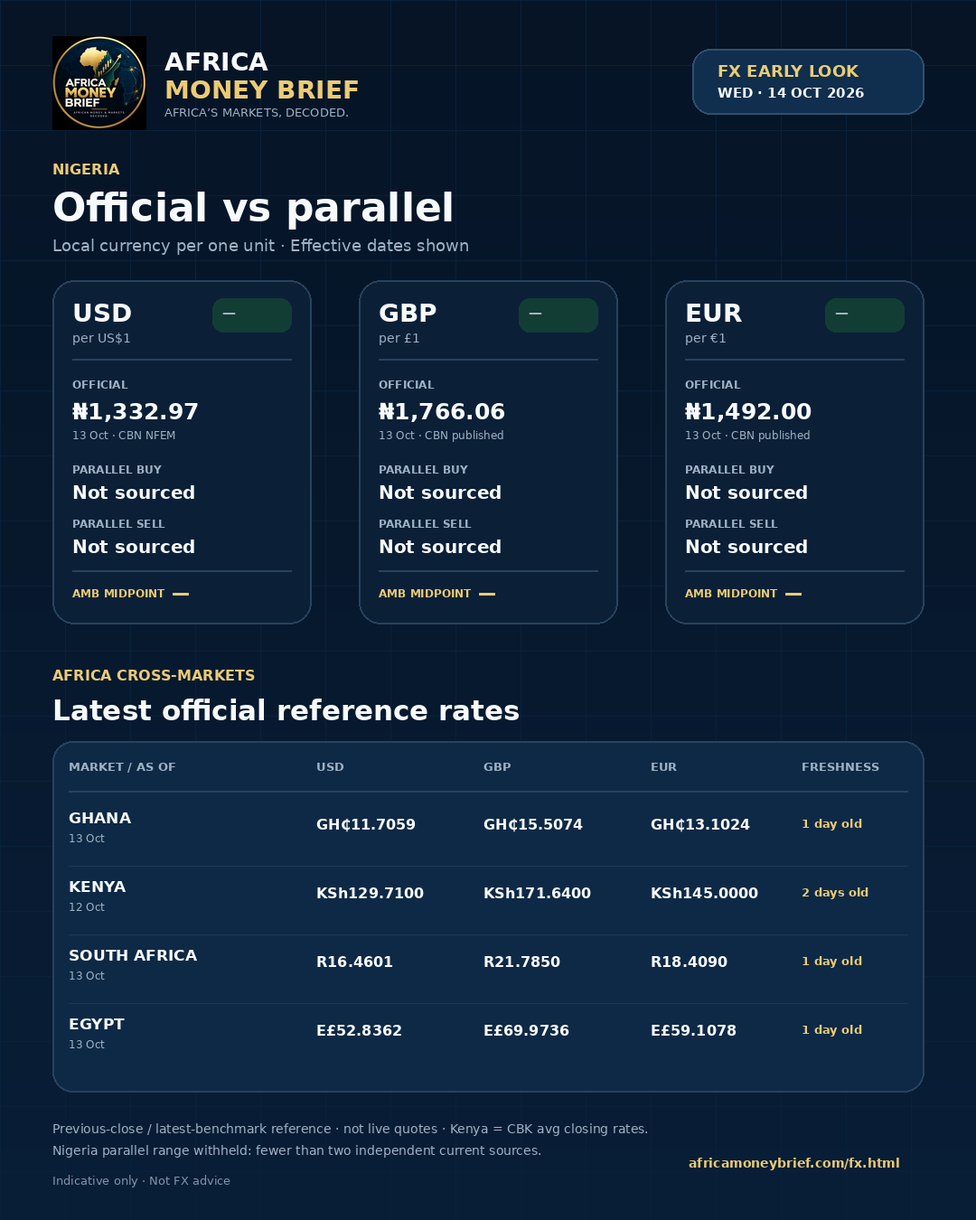
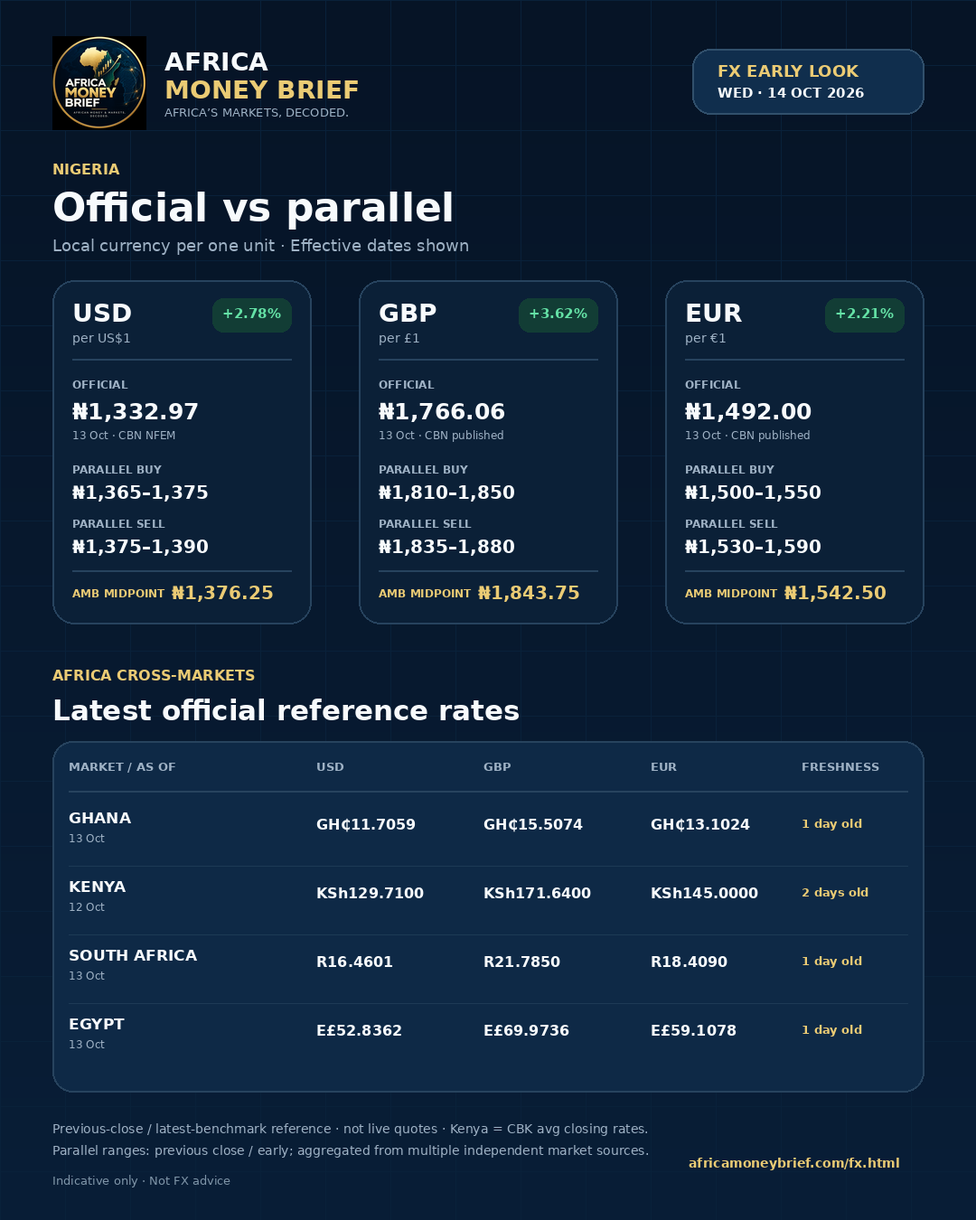
VALIDATED Early Look 2026-10-14

diff --git a/fx.html b/fx.html
@@ -4,11 +4,11 @@
 <script defer src="assets/privacy.js"></script>
 <meta charset="utf-8"><meta name="viewport" content="width=device-width,initial-scale=1"><meta name="description" content="Official and parallel exchange rates for Nigeria plus Ghana, Kenya, South Africa and Egypt, each with its effective date."><meta name="theme-color" content="#061426"><link rel="canonical" href="https://africamoneybrief.com/fx.html"><meta property="og:site_name" content="Africa Money Brief"><meta property="og:title" content="FX Markets | Africa Money Brief"><meta property="og:description" content="Official and parallel exchange rates for Nigeria plus Ghana, Kenya, South Africa and Egypt, each with its effective date."><meta property="og:image" content="https://africamoneybrief.com/assets/africa-money-brief-cover.png"><meta property="og:type" content="website"><meta name="twitter:card" content="summary_large_image"><title>FX Markets | Africa Money Brief</title><link rel="icon" type="image/png" href="assets/africa-money-brief-logo.png"><link rel="stylesheet" href="styles.css"><link rel="stylesheet" href="assets/redesign.css"></head><body><header><a class="logo brand-logo" href="index.html"><img src="assets/africa-money-brief-logo.png" alt="Africa Money Brief logo"><span>AFRICA <em>MONEY BRIEF</em><small>AFRICA’S MARKETS, DECODED.</small></span></a><nav><a class="" href="index.html">HOME</a><a class="active" href="fx.html">FX</a><a class="" href="capital-markets.html">CAPITAL MARKETS</a><a class="" href="money-rates.html">MONEY &amp; RATES</a><a class="" href="real-estate.html">REAL ESTATE</a><a class="" href="data.html">DATA</a><a class="" href="archive.html">ARCHIVE</a><a class="x" href="https://x.com/AMBriefDaily">Follow @AMBriefDaily ↗</a></nav></header>
 <main><section class="subhero"><div><p class="eyebrow">FX MARKETS</p><h1>Currencies.<br><i>Clearly decoded.</i></h1><p class="lead">Official rates, parallel markets, spreads, reserves and the policy forces moving African currencies.</p></div><div class="subhero-brand"><img src="assets/africa-money-brief-logo.png" alt="Africa Money Brief"><span>AFRICA’S MARKETS,<br><b>DECODED.</b></span></div></section>
-<div class="v2"><section class="section" style="padding-bottom:0"><!--AMB:early-latest--><div class="v2"><details id="early-look-2026-10-13" open><summary>13 Oct · Early Look (pre-market)</summary><section class="section"><p class="eyebrow">FX EARLY LOOK · 13 OCT 2026 · PRE-MARKET</p><p class="lead">Previous-close and overnight reference only; not live opening quotes. Each figure carries its own effective date.</p>
-<div class="tw"><table><thead><tr><th>Currency</th><th>Nigeria official</th><th>Parallel buy / sell</th><th>Premium</th></tr></thead><tbody><tr><td>USD</td><td>₦1,332.10 <small>(12 Oct, CBN selling)</small></td><td>₦1,365–1,365 / ₦1,373–1,375</td><td class="prem">+2.47%</td></tr><tr><td>GBP</td><td>₦1,762.63 <small>(12 Oct, CBN selling)</small></td><td>₦1,810–1,820 / ₦1,840–1,850</td><td class="prem">+2.97%</td></tr><tr><td>EUR</td><td>₦1,489.15 <small>(12 Oct, CBN selling)</small></td><td>₦1,520–1,525 / ₦1,545–1,560</td><td class="prem">+2.24%</td></tr></tbody></table></div>
-<p class="fine">Premium = parallel buying midpoint ÷ CBN selling rate − 1. CBN rates are the 12 Oct published selling rates; parallel observations (13 Oct early morning): aggregated from multiple independent market sources; indicative only.</p>
-<h3 style="margin:22px 0 10px">Africa cross-markets</h3><div class="tw"><table><thead><tr><th>Market</th><th>USD</th><th>GBP</th><th>EUR</th><th>As of</th></tr></thead><tbody><tr><td>Ghana</td><td>GH₵11.7700</td><td>GH₵15.5417</td><td>GH₵13.1325</td><td>12 Oct <span class="chip ok">1 day old</span></td></tr><tr><td>Kenya</td><td>KSh129.7500</td><td>KSh171.6700</td><td>KSh145.3200</td><td>12 Oct <span class="chip ok">1 day old</span></td></tr><tr><td>South Africa</td><td>R16.5423</td><td>R21.9020</td><td>R18.5141</td><td>12 Oct <span class="chip ok">1 day old</span></td></tr><tr><td>Egypt</td><td>E£52.3902</td><td>E£69.2442</td><td>E£58.6299</td><td>7 Oct <span class="chip warn">6 days old</span></td></tr></tbody></table></div>
-<p class="fine">Latest published official reference values with effective dates: Ghana mid of Bank of Ghana buy/sell (12 Oct); Kenya CBK daily rate (12 Oct); South Africa SARB and Egypt CBE carried from the last verified publication (SARB 12 Oct; CBE 7 Oct) because the central-bank pages could not be re-read this morning. Informational only; not financial or FX advice. The Flagship edition follows after verification.</p></section></details></div><!--/AMB:early-latest--></section><!--AMB:flagship--><section class="section" id="flagship-2026-10-13"><p class="eyebrow">FX FLAGSHIP · EDITION 13 OCT 2026</p><h2 class="h2s" style="margin-top:8px">Nigeria — official vs parallel</h2>
+<div class="v2"><section class="section" style="padding-bottom:0"><!--AMB:early-latest--><div class="v2"><details id="early-look-2026-10-14" open><summary>14 Oct · Early Look (pre-market)</summary><section class="section"><p class="eyebrow">FX EARLY LOOK · 14 OCT 2026 · PRE-MARKET</p><p class="lead">Previous-close and latest-benchmark reference only; not live opening quotes. Each figure carries its own effective date.</p>
+<div class="tw"><table><thead><tr><th>Currency</th><th>Nigeria official</th><th>Parallel buy / sell</th><th>Premium</th></tr></thead><tbody><tr><td>USD</td><td>₦1,332.97 <small>(13 Oct, CBN selling)</small></td><td>₦1,365–1,375 / ₦1,375–1,390</td><td class="prem">+2.78%</td></tr><tr><td>GBP</td><td>₦1,766.06 <small>(13 Oct, CBN selling)</small></td><td>₦1,810–1,850 / ₦1,835–1,880</td><td class="prem">+3.62%</td></tr><tr><td>EUR</td><td>₦1,492.00 <small>(13 Oct, CBN selling)</small></td><td>₦1,500–1,550 / ₦1,530–1,590</td><td class="prem">+2.21%</td></tr></tbody></table></div>
+<p class="fine">Nigeria parallel-market ranges aggregate multiple independent previous-close/early observations from 13 Oct 16:13-22:06 WAT and 14 Oct 03:00-pre-07:00 WAT. They are not live opening quotes. Material GBP and EUR cross-source dispersion is preserved rather than compressed. Premium = parallel buying midpoint ÷ CBN selling rate - 1.</p>
+<h3 style="margin:22px 0 10px">Africa cross-markets</h3><div class="tw"><table><thead><tr><th>Market</th><th>USD</th><th>GBP</th><th>EUR</th><th>As of</th></tr></thead><tbody><tr><td>Ghana</td><td>GH₵11.7059</td><td>GH₵15.5074</td><td>GH₵13.1024</td><td>13 Oct <span class="chip ok">1 day old</span></td></tr><tr><td>Kenya</td><td>KSh129.7100</td><td>KSh171.6400</td><td>KSh145.0000</td><td>12 Oct <span class="chip warn">2 days old</span></td></tr><tr><td>South Africa</td><td>R16.4601</td><td>R21.7850</td><td>R18.4090</td><td>13 Oct <span class="chip ok">1 day old</span></td></tr><tr><td>Egypt</td><td>E£52.8362</td><td>E£69.9736</td><td>E£59.1078</td><td>13 Oct <span class="chip ok">1 day old</span></td></tr></tbody></table></div>
+<p class="fine">Latest official reference values with effective dates: Ghana mid of Bank of Ghana buy/sell (13 Oct); Kenya CBK commercial-banks’ average closing rates (market close 12 Oct, published 13 Oct; not a standalone buy or sell quote); South Africa SARB weighted-average bank rates at approximately 10:30 on 13 Oct, reverified directly through the SARB HomePageRates endpoint on 14 Oct; Egypt mid of CBE buy/sell (13 Oct). Informational only; not financial or FX advice. The Flagship edition follows after verification.</p></section></details></div><!--/AMB:early-latest--></section><!--AMB:flagship--><section class="section" id="flagship-2026-10-13"><p class="eyebrow">FX FLAGSHIP · EDITION 13 OCT 2026</p><h2 class="h2s" style="margin-top:8px">Nigeria — official vs parallel</h2>
 <p class="lead">Local currency per one unit of foreign currency. Every figure carries its effective date.</p>
 <div class="panel"><div class="ph"><h3>USD → NGN <small>per US$1</small></h3><span class="prem big">+2.85%</span></div><div class="grid4"><div><small>CBN NFEM rate · 12 Oct</small><b>₦1,332.10</b></div><div><small>Parallel buy</small><b>₦1,365–1,375</b></div><div><small>Parallel sell</small><b>₦1,373–1,390</b></div><div><small>AMB midpoint</small><b class="gold">₦1,375.75</b></div></div><p class='basis'>CBN NFEM rate (volume-weighted; the CBN’s official selling rate for the day), 12 Oct. The premium uses this rate. Source: <a href='https://www.cbn.gov.ng/rates/ExchRateByCurrency.html'>CBN ↗</a></p></div><div class="panel"><div class="ph"><h3>GBP → NGN <small>per £1</small></h3><span class="prem big">+4.11%</span></div><div class="grid4"><div><small>CBN published rate · 12 Oct</small><b>₦1,762.63</b></div><div><small>Parallel buy</small><b>₦1,820–1,850</b></div><div><small>Parallel sell</small><b>₦1,840–1,880</b></div><div><small>AMB midpoint</small><b class="gold">₦1,847.50</b></div></div><p class='basis'>CBN published selling rate, 12 Oct. The premium uses this rate. Source: <a href='https://www.cbn.gov.ng/rates/ExchRateByCurrency.html'>CBN ↗</a></p></div><div class="panel"><div class="ph"><h3>EUR → NGN <small>per €1</small></h3><span class="prem big">+3.25%</span></div><div class="grid4"><div><small>CBN published rate · 12 Oct</small><b>₦1,489.15</b></div><div><small>Parallel buy</small><b>₦1,525–1,550</b></div><div><small>Parallel sell</small><b>₦1,545–1,590</b></div><div><small>AMB midpoint</small><b class="gold">₦1,552.50</b></div></div><p class='basis'>CBN published selling rate, 12 Oct. The premium uses this rate. Source: <a href='https://www.cbn.gov.ng/rates/ExchRateByCurrency.html'>CBN ↗</a></p></div>
 <p class="fine">Nigeria’s 13 Oct public parallel-market observations showed material cross-source dispersion. The displayed ranges preserve verified same-day observations rather than force a single quote. Premium = parallel buying midpoint ÷ CBN selling rate − 1. Indicative only; not FX advice.</p>
@@ -28,7 +28,11 @@
 <p class="fine">Parallel observations: aggregated from multiple independent market sources; rates vary by location and transaction size. Premium = parallel buying midpoint ÷ CBN selling rate − 1. Indicative only; not FX advice.</p>
 <h2 class="h2s">Africa cross-markets — official rates</h2><div class="tw"><table><thead><tr><th>Market</th><th>USD</th><th>GBP</th><th>EUR</th><th>As of</th></tr></thead><tbody><tr><td>Ghana</td><td>GH₵11.7800</td><td>GH₵15.5585</td><td>GH₵13.1824</td><td>8 Oct <span class="chip ok">1 day old</span></td></tr><tr><td>Kenya</td><td>KSh129.9100</td><td>KSh172.0400</td><td>KSh145.9200</td><td>9 Oct <span class="chip ok">Today</span></td></tr><tr><td>South Africa</td><td>R16.6784</td><td>R22.0287</td><td>R18.6760</td><td>8 Oct <span class="chip ok">1 day old</span></td></tr><tr><td>Egypt</td><td>E£52.3902</td><td>E£69.2442</td><td>E£58.6294</td><td>7 Oct <span class="chip warn">2 days old</span></td></tr></tbody></table></div>
 <p class="fine">Mid-market reference values: Ghana mid of Bank of Ghana buy/sell; Kenya CBK indicative; South Africa and Egypt mid of published buy/sell. Egypt’s latest retrievable table is 7 Oct. Primary sources: <a href="https://www.cbn.gov.ng/rates/ExchRateByCurrency.html">CBN</a> · <a href="https://www.bog.gov.gh/treasury-and-the-markets/daily-interbank-fx-rates/">Bank of Ghana</a> · <a href="https://www.centralbank.go.ke/cbk-indicative-rates/">CBK</a> · <a href="https://www.resbank.co.za/en/home/what-we-do/statistics/key-statistics/current-market-rates">SARB</a> · <a href="https://www.cbe.org.eg/en/economic-research/statistics/cbe-exchange-rates">CBE</a>.</p>
-<div class="btns"><a class="btn" href="data/fx/2026-10-09.json">Download this edition (JSON)</a><a class="ghost" href="data/fx/series.csv">CSV</a><a class="ghost" href="archive.html">All editions</a></div></section></div></details><!--/AMB:earlier--><details id="early-look-2026-10-09"><summary>9 Oct · Early Look (pre-market)</summary><section class="section" id="early-look-2026-10-09"><div class="heading"><div><p class="eyebrow">9 OCT 2026 • FX EARLY LOOK • PRE-MARKET</p><h2>Early Look — source-dated benchmarks</h2><p><b>Rates verified against published sources 9 October 2026.</b> Figures below carry their own effective dates and are not represented as live opening quotes. Local currency per unit.</p></div><span class="date">EARLY LOOK • PRE-MARKET</span></div><div class="cards"><article class="card feature"><span class="tag">NIGERIA • OCT 8 OFFICIAL / OCT 9 MEMBER REPORT</span><h3>NGN • official reference and indicative parallel observations</h3><p>Official 8 Oct benchmark (CBN-attributed secondary listing): USD ₦1,331.60 • GBP ₦1,758.51 • EUR ₦1,489.66 (central reference, not dealer buy/sell).</p><p>USD parallel indicative: Oct 9 member report ₦1,383 buy / ₦1,388 sell; Oct 9 independent published report ₦1,375 buy / ₦1,385 sell. <b>Observed source dispersion: buy ₦1,375–₦1,383; sell ₦1,385–₦1,388.</b> Not a consensus or executable nationwide quote.</p><p>GBP parallel ₦1,825 buy / ₦1,840 sell; EUR ₦1,525 buy / ₦1,545 sell — <b>Oct 6 latest available member reports</b>, not current Oct 9 quotes.</p></article><article class="card"><span class="tag">GHANA • OCT 8 BANK OF GHANA</span><h3>GHS • official prior close (mid)</h3><p>USD 11.7800 • GBP 15.5585 • EUR 13.1824</p></article><article class="card"><span class="tag">KENYA • OCT 9 CENTRAL BANK</span><h3>KES • latest published benchmark</h3><p>USD 129.91 • GBP 172.04 • EUR 145.92</p></article><article class="card"><span class="tag">SOUTH AFRICA • OCT 8 PRIOR SESSION</span><h3>ZAR • authorized-bank TT buy / sell</h3><p>USD 16.4968 / 16.8599 • GBP 21.6715 / 22.3859 • EUR 18.3555 / 18.9964</p><p class="fine">Previous verified website observation; not reverified as Oct 9 live trading.</p></article><article class="card"><span class="tag">EGYPT • OCT 7 CENTRAL BANK</span><h3>EGP • latest available prior benchmark</h3><p>USD 52.3204 / 52.4600 • EUR 58.5465 / 58.7132 (buy / sell). GBP 69.1414 / 69.3469 (Oct 7 previously published bank quote; not newly primary-verified).</p></article></div><p class="fine">Source checks: <a href="https://www.bog.gov.gh/treasury-and-the-markets/daily-interbank-fx-rates/">BoG</a>; <a href="https://www.centralbank.go.ke/home/forex2/">CBK</a>; <a href="https://www.cbe.org.eg/en/">CBE</a>; Nigeria official-rate attribution (CBN-attributed secondary listing). Nigeria parallel observations: aggregated from multiple independent market sources. Rates vary by source, location, transaction and time. Informational only; not financial or FX advice.</p></section></details><details id="fx-flagship-2026-10-08"><summary>8 Oct · FX Flagship</summary><section class="section" id="fx-flagship-2026-10-08"><div class="heading"><div><p class="eyebrow">PREVIOUS FLAGSHIP EDITION • 8 OCT 2026</p><h2>AFRICA FX FLAGSHIP — OCTOBER 8, 2026</h2><p><b>USD • GBP • EUR</b> · Local currency per unit. <b>Verified as of 12:02 PM WAT, October 8, 2026.</b></p><p>Latest available observations dated October 7–8; dates and market conventions differ. Buy/sell shown only where independently supported.</p></div><span class="date">OCT 8 EDITION</span></div>
+<div class="btns"><a class="btn" href="data/fx/2026-10-09.json">Download this edition (JSON)</a><a class="ghost" href="data/fx/series.csv">CSV</a><a class="ghost" href="archive.html">All editions</a></div></section></div></details><details id="early-look-2026-10-13"><summary>13 Oct · Early Look (pre-market)</summary><section class="section"><p class="eyebrow">FX EARLY LOOK · 13 OCT 2026 · PRE-MARKET</p><p class="lead">Previous-close and overnight reference only; not live opening quotes. Each figure carries its own effective date.</p>
+<div class="tw"><table><thead><tr><th>Currency</th><th>Nigeria official</th><th>Parallel buy / sell</th><th>Premium</th></tr></thead><tbody><tr><td>USD</td><td>₦1,332.10 <small>(12 Oct, CBN selling)</small></td><td>₦1,365–1,365 / ₦1,373–1,375</td><td class="prem">+2.47%</td></tr><tr><td>GBP</td><td>₦1,762.63 <small>(12 Oct, CBN selling)</small></td><td>₦1,810–1,820 / ₦1,840–1,850</td><td class="prem">+2.97%</td></tr><tr><td>EUR</td><td>₦1,489.15 <small>(12 Oct, CBN selling)</small></td><td>₦1,520–1,525 / ₦1,545–1,560</td><td class="prem">+2.24%</td></tr></tbody></table></div>
+<p class="fine">Premium = parallel buying midpoint ÷ CBN selling rate − 1. CBN rates are the 12 Oct published selling rates; parallel observations (13 Oct early morning): aggregated from multiple independent market sources; indicative only.</p>
+<h3 style="margin:22px 0 10px">Africa cross-markets</h3><div class="tw"><table><thead><tr><th>Market</th><th>USD</th><th>GBP</th><th>EUR</th><th>As of</th></tr></thead><tbody><tr><td>Ghana</td><td>GH₵11.7700</td><td>GH₵15.5417</td><td>GH₵13.1325</td><td>12 Oct <span class="chip ok">1 day old</span></td></tr><tr><td>Kenya</td><td>KSh129.7500</td><td>KSh171.6700</td><td>KSh145.3200</td><td>12 Oct <span class="chip ok">1 day old</span></td></tr><tr><td>South Africa</td><td>R16.5423</td><td>R21.9020</td><td>R18.5141</td><td>12 Oct <span class="chip ok">1 day old</span></td></tr><tr><td>Egypt</td><td>E£52.3902</td><td>E£69.2442</td><td>E£58.6299</td><td>7 Oct <span class="chip warn">6 days old</span></td></tr></tbody></table></div>
+<p class="fine">Latest published official reference values with effective dates: Ghana mid of Bank of Ghana buy/sell (12 Oct); Kenya CBK daily rate (12 Oct); South Africa SARB and Egypt CBE carried from the last verified publication (SARB 12 Oct; CBE 7 Oct) because the central-bank pages could not be re-read this morning. Informational only; not financial or FX advice. The Flagship edition follows after verification.</p></section></details><!--/AMB:earlier--><details id="early-look-2026-10-09"><summary>9 Oct · Early Look (pre-market)</summary><section class="section" id="early-look-2026-10-09"><div class="heading"><div><p class="eyebrow">9 OCT 2026 • FX EARLY LOOK • PRE-MARKET</p><h2>Early Look — source-dated benchmarks</h2><p><b>Rates verified against published sources 9 October 2026.</b> Figures below carry their own effective dates and are not represented as live opening quotes. Local currency per unit.</p></div><span class="date">EARLY LOOK • PRE-MARKET</span></div><div class="cards"><article class="card feature"><span class="tag">NIGERIA • OCT 8 OFFICIAL / OCT 9 MEMBER REPORT</span><h3>NGN • official reference and indicative parallel observations</h3><p>Official 8 Oct benchmark (CBN-attributed secondary listing): USD ₦1,331.60 • GBP ₦1,758.51 • EUR ₦1,489.66 (central reference, not dealer buy/sell).</p><p>USD parallel indicative: Oct 9 member report ₦1,383 buy / ₦1,388 sell; Oct 9 independent published report ₦1,375 buy / ₦1,385 sell. <b>Observed source dispersion: buy ₦1,375–₦1,383; sell ₦1,385–₦1,388.</b> Not a consensus or executable nationwide quote.</p><p>GBP parallel ₦1,825 buy / ₦1,840 sell; EUR ₦1,525 buy / ₦1,545 sell — <b>Oct 6 latest available member reports</b>, not current Oct 9 quotes.</p></article><article class="card"><span class="tag">GHANA • OCT 8 BANK OF GHANA</span><h3>GHS • official prior close (mid)</h3><p>USD 11.7800 • GBP 15.5585 • EUR 13.1824</p></article><article class="card"><span class="tag">KENYA • OCT 9 CENTRAL BANK</span><h3>KES • latest published benchmark</h3><p>USD 129.91 • GBP 172.04 • EUR 145.92</p></article><article class="card"><span class="tag">SOUTH AFRICA • OCT 8 PRIOR SESSION</span><h3>ZAR • authorized-bank TT buy / sell</h3><p>USD 16.4968 / 16.8599 • GBP 21.6715 / 22.3859 • EUR 18.3555 / 18.9964</p><p class="fine">Previous verified website observation; not reverified as Oct 9 live trading.</p></article><article class="card"><span class="tag">EGYPT • OCT 7 CENTRAL BANK</span><h3>EGP • latest available prior benchmark</h3><p>USD 52.3204 / 52.4600 • EUR 58.5465 / 58.7132 (buy / sell). GBP 69.1414 / 69.3469 (Oct 7 previously published bank quote; not newly primary-verified).</p></article></div><p class="fine">Source checks: <a href="https://www.bog.gov.gh/treasury-and-the-markets/daily-interbank-fx-rates/">BoG</a>; <a href="https://www.centralbank.go.ke/home/forex2/">CBK</a>; <a href="https://www.cbe.org.eg/en/">CBE</a>; Nigeria official-rate attribution (CBN-attributed secondary listing). Nigeria parallel observations: aggregated from multiple independent market sources. Rates vary by source, location, transaction and time. Informational only; not financial or FX advice.</p></section></details><details id="fx-flagship-2026-10-08"><summary>8 Oct · FX Flagship</summary><section class="section" id="fx-flagship-2026-10-08"><div class="heading"><div><p class="eyebrow">PREVIOUS FLAGSHIP EDITION • 8 OCT 2026</p><h2>AFRICA FX FLAGSHIP — OCTOBER 8, 2026</h2><p><b>USD • GBP • EUR</b> · Local currency per unit. <b>Verified as of 12:02 PM WAT, October 8, 2026.</b></p><p>Latest available observations dated October 7–8; dates and market conventions differ. Buy/sell shown only where independently supported.</p></div><span class="date">OCT 8 EDITION</span></div>
 <div class="cards">
 <article class="card feature"><span class="tag">NIGERIA • NGN • OFFICIAL &amp; PARALLEL</span><h3>Nigeria — official followed immediately by parallel</h3>
 <table style="width:100%;border-collapse:collapse;text-align:left"><thead><tr><th scope="col">Currency</th><th scope="col">Market</th><th scope="col">Reference / Buy</th><th scope="col">Sell</th><th scope="col">Source date</th></tr></thead><tbody>

diff --git a/archive.html b/archive.html
@@ -3,5 +3,5 @@
 <link rel="stylesheet" href="assets/privacy.css">
 <script defer src="assets/privacy.js"></script>
 <meta charset="utf-8"><meta name="viewport" content="width=device-width,initial-scale=1"><meta name="description" content="Every Africa Money Brief FX edition, with links to the page and dataset."><meta name="theme-color" content="#061426"><link rel="canonical" href="https://africamoneybrief.com/archive.html"><meta property="og:site_name" content="Africa Money Brief"><meta property="og:title" content="Archive | Africa Money Brief"><meta property="og:description" content="Every Africa Money Brief FX edition, with links to the page and dataset."><meta property="og:image" content="https://africamoneybrief.com/assets/africa-money-brief-cover.png"><meta property="og:type" content="website"><meta name="twitter:card" content="summary_large_image"><title>Archive | Africa Money Brief</title><link rel="icon" type="image/png" href="assets/africa-money-brief-logo.png"><link rel="stylesheet" href="styles.css"><link rel="stylesheet" href="assets/redesign.css"></head><body><header><a class="logo brand-logo" href="index.html"><img src="assets/africa-money-brief-logo.png" alt="Africa Money Brief logo"><span>AFRICA <em>MONEY BRIEF</em><small>AFRICA’S MARKETS, DECODED.</small></span></a><nav><a class="" href="index.html">HOME</a><a class="" href="fx.html">FX</a><a class="" href="capital-markets.html">CAPITAL MARKETS</a><a class="" href="money-rates.html">MONEY &amp; RATES</a><a class="" href="real-estate.html">REAL ESTATE</a><a class="" href="data.html">DATA</a><a class="active" href="archive.html">ARCHIVE</a><a class="x" href="https://x.com/AMBriefDaily">Follow @AMBriefDaily ↗</a></nav></header>
-<main><section class="subhero"><div><p class="eyebrow">ARCHIVE</p><h1>Every edition,<br><i>one place.</i></h1><p class="lead">Filter by type. Editions with a structured dataset link to it; older ones are page-only.</p></div><div class="subhero-brand"><img src="assets/africa-money-brief-logo.png" alt="Africa Money Brief"><span>AFRICA’S MARKETS,<br><b>DECODED.</b></span></div></section><div class="v2"><section class="section"><div class="filters" role="group" aria-label="Filter editions"><button class="on" data-f="all">All</button><button data-f="Flagship">FX Flagship</button><button data-f="Early Look">Early Look</button></div><div><!--AMB:archive-list--><div class="ai" data-t="Flagship"><span class="ad">13 Oct 2026</span><div><b>FX Flagship</b><br><small>Structured dataset</small></div><div class="al"><a href="fx.html#flagship-2026-10-13">View</a><a href="data/fx/2026-10-13.json">JSON</a></div></div><div class="ai" data-t="Early Look"><span class="ad">13 Oct 2026</span><div><b>Early Look</b><br><small>Structured dataset</small></div><div class="al"><a href="fx.html#early-look-2026-10-13">View</a><a href="data/fx/early-2026-10-13.json">JSON</a></div></div><div class="ai" data-t="Flagship"><span class="ad">12 Oct 2026</span><div><b>FX Flagship</b><br><small>Structured dataset</small></div><div class="al"><a href="fx.html#flagship-2026-10-12">View</a><a href="data/fx/2026-10-12.json">JSON</a></div></div><div class="ai" data-t="Flagship"><span class="ad">9 Oct 2026</span><div><b>FX Flagship (corrected)</b><br><small>Structured dataset</small></div><div class="al"><a href="fx.html#flagship-2026-10-09">View</a><a href="data/fx/2026-10-09.json">JSON</a></div></div><div class="ai" data-t="Early Look"><span class="ad">9 Oct 2026</span><div><b>Early Look</b><br><small>Page only · dataset not published</small></div><div class="al"><a href="fx.html#early-look-2026-10-09">View</a></div></div><div class="ai" data-t="Flagship"><span class="ad">8 Oct 2026</span><div><b>FX Flagship</b><br><small>Structured dataset</small></div><div class="al"><a href="fx.html#fx-flagship-2026-10-08">View</a><a href="data/2026-10-08-africa-fx-flagship.json">JSON</a></div></div><div class="ai" data-t="Early Look"><span class="ad">8 Oct 2026</span><div><b>Early Look</b><br><small>Page only · dataset not published</small></div><div class="al"><a href="fx.html#early-look-2026-10-08">View</a></div></div><div class="ai" data-t="Flagship"><span class="ad">7 Oct 2026</span><div><b>FX Flagship</b><br><small>Page only · dataset not published</small></div><div class="al"><a href="archive/2026-10-07-fx-flagship.html">View</a></div></div><!--/AMB:archive-list--></div><p class="fine">Newest first. <a href="briefings.html" style="color:var(--gold)">Briefings page</a></p></section></div>
+<main><section class="subhero"><div><p class="eyebrow">ARCHIVE</p><h1>Every edition,<br><i>one place.</i></h1><p class="lead">Filter by type. Editions with a structured dataset link to it; older ones are page-only.</p></div><div class="subhero-brand"><img src="assets/africa-money-brief-logo.png" alt="Africa Money Brief"><span>AFRICA’S MARKETS,<br><b>DECODED.</b></span></div></section><div class="v2"><section class="section"><div class="filters" role="group" aria-label="Filter editions"><button class="on" data-f="all">All</button><button data-f="Flagship">FX Flagship</button><button data-f="Early Look">Early Look</button></div><div><!--AMB:archive-list--><div class="ai" data-t="Early Look"><span class="ad">14 Oct 2026</span><div><b>Early Look</b><br><small>Structured dataset</small></div><div class="al"><a href="fx.html#early-look-2026-10-14">View</a><a href="data/fx/early-2026-10-14.json">JSON</a></div></div><div class="ai" data-t="Flagship"><span class="ad">13 Oct 2026</span><div><b>FX Flagship</b><br><small>Structured dataset</small></div><div class="al"><a href="fx.html#flagship-2026-10-13">View</a><a href="data/fx/2026-10-13.json">JSON</a></div></div><div class="ai" data-t="Early Look"><span class="ad">13 Oct 2026</span><div><b>Early Look</b><br><small>Structured dataset</small></div><div class="al"><a href="fx.html#early-look-2026-10-13">View</a><a href="data/fx/early-2026-10-13.json">JSON</a></div></div><div class="ai" data-t="Flagship"><span class="ad">12 Oct 2026</span><div><b>FX Flagship</b><br><small>Structured dataset</small></div><div class="al"><a href="fx.html#flagship-2026-10-12">View</a><a href="data/fx/2026-10-12.json">JSON</a></div></div><div class="ai" data-t="Flagship"><span class="ad">9 Oct 2026</span><div><b>FX Flagship (corrected)</b><br><small>Structured dataset</small></div><div class="al"><a href="fx.html#flagship-2026-10-09">View</a><a href="data/fx/2026-10-09.json">JSON</a></div></div><div class="ai" data-t="Early Look"><span class="ad">9 Oct 2026</span><div><b>Early Look</b><br><small>Page only · dataset not published</small></div><div class="al"><a href="fx.html#early-look-2026-10-09">View</a></div></div><div class="ai" data-t="Flagship"><span class="ad">8 Oct 2026</span><div><b>FX Flagship</b><br><small>Structured dataset</small></div><div class="al"><a href="fx.html#fx-flagship-2026-10-08">View</a><a href="data/2026-10-08-africa-fx-flagship.json">JSON</a></div></div><div class="ai" data-t="Early Look"><span class="ad">8 Oct 2026</span><div><b>Early Look</b><br><small>Page only · dataset not published</small></div><div class="al"><a href="fx.html#early-look-2026-10-08">View</a></div></div><div class="ai" data-t="Flagship"><span class="ad">7 Oct 2026</span><div><b>FX Flagship</b><br><small>Page only · dataset not published</small></div><div class="al"><a href="archive/2026-10-07-fx-flagship.html">View</a></div></div><!--/AMB:archive-list--></div><p class="fine">Newest first. <a href="briefings.html" style="color:var(--gold)">Briefings page</a></p></section></div>
 <script>document.querySelectorAll('.filters button').forEach(function(b){b.onclick=function(){document.querySelectorAll('.filters button').forEach(function(x){x.classList.remove('on')});b.classList.add('on');document.querySelectorAll('.ai').forEach(function(a){a.style.display=(b.dataset.f=='all'||a.dataset.t==b.dataset.f)?'':'none'})}})</script></main><footer><div class="logo footer-logo"><img src="assets/africa-money-brief-logo.png" alt="Africa Money Brief logo"><span>AFRICA <em>MONEY BRIEF</em></span></div><p>FX • CAPITAL MARKETS • MONEY & RATES • REAL ESTATE • ECONOMY</p><div class="footerlinks"><a href="mailto:connect@ambriefdaily.com">Contact: connect@ambriefdaily.com</a><a href="privacy.html">Privacy &amp; Cookies</a><button type="button" class="amb-cookie-settings" data-amb-cookie-settings>Cookie settings</button><a href="methodology.html">Methodology</a><a href="briefings.html">Briefings</a><a href="about.html">About</a><a href="https://x.com/AMBriefDaily">@AMBriefDaily ↗</a></div></footer></body></html>

diff --git a/tools/render_fx_social_text.py b/tools/render_fx_social_text.py
@@ -163,12 +163,31 @@ def render_early(data):
             f"• {code}: ₦{v['official_selling_rate']:,.2f} ({date_label(v['official_rate_date'])}; {official_label(v)}) "
             f"{pct(v['official_selling_rate'], p['official_selling_rate']):+.2f}% vs {date_label(p['official_rate_date'])}"
         )
-    lines += [
-        "",
-        "The CBN’s official rates edged weaker for the naira against all three currencies versus the prior published rate. "
-        "Parallel-market ranges are withheld this morning: fewer than two independent current observations could be verified, so no premium is shown.",
-        "",
-    ]
+    has_parallel = all(n[c].get("parallel_buy_low") is not None for c in ("USD", "GBP", "EUR"))
+    if has_parallel:
+        lines += ["", "Nigeria parallel-market observations (previous close / early; not live opening quotes):"]
+        for code in ("USD", "GBP", "EUR"):
+            v = n[code]
+            buy_mid = (v["parallel_buy_low"] + v["parallel_buy_high"]) / 2
+            sell_mid = (v["parallel_sell_low"] + v["parallel_sell_high"]) / 2
+            amb_mid = (buy_mid + sell_mid) / 2
+            lines.append(
+                f"• {code}: Buy {quote(v['parallel_buy_low'], v['parallel_buy_high'])} | "
+                f"Sell {quote(v['parallel_sell_low'], v['parallel_sell_high'])} | "
+                f"AMB midpoint ₦{amb_mid:,.2f} | Parallel-buy premium {v['premium_pct']:+.2f}%"
+            )
+        lines += [
+            "",
+            "Aggregated from multiple independent market sources observed from 13 Oct 16:13–22:06 WAT and 14 Oct 03:00–pre-07:00 WAT. "
+            "GBP and EUR show material cross-source dispersion; the ranges preserve it rather than force a single quote.",
+            "",
+        ]
+    else:
+        lines += [
+            "",
+            "Parallel-market ranges are withheld this morning: fewer than two independent current observations could be verified, so no premium is shown.",
+            "",
+        ]
     def row(name, flag, sym, note):
         v = m[name]
         r = v["rates"]
@@ -203,14 +222,14 @@ def render_early(data):
     gh_move = pct(m["Ghana"]["rates"]["USD"], gh["rates"]["USD"]) if gh else 0
     lines += row("Ghana", "🇬🇭", "GH₵", f"Bank of Ghana interbank mid-rates; the cedi {'firmed' if gh_move < 0 else 'softened'} {abs(gh_move):.2f}% against the US dollar versus the {date_label(gh['asof'])} reference.")
     lines += row("Kenya", "🇰🇪", "KSh", "CBK commercial-banks’ average closing rates (not a standalone buy or sell quote)." + move("Kenya", "KES"))
-    lines += row("South Africa", "🇿🇦", "R", "SARB weighted-average bank rates at about 10:30; latest available benchmark, carried forward because the SARB rates endpoint could not be reached this morning." + move("South Africa", "ZAR"))
+    lines += row("South Africa", "🇿🇦", "R", "SARB weighted-average bank rates at about 10:30; 13 Oct benchmark reverified directly through the SARB endpoint this morning." + move("South Africa", "ZAR"))
     lines += row("Egypt", "🇪🇬", "E£", "CBE buy/sell mid-rates." + move("Egypt", "EGP"))
     lines += [
         "SOURCES & METHODOLOGY",
         "",
         "Official rates: latest available central-bank reference rates (CBN, Bank of Ghana, CBK, SARB, CBE), with effective dates indicated. Ghana and Egypt figures are midpoints of published buy/sell rates.",
         "",
-        "Nigeria parallel-market rates: Aggregated from multiple independent market sources; withheld in this Early Look because the two-source minimum was not met.",
+        "Nigeria parallel-market rates: Aggregated from multiple independent market sources; previous-close/early observations are explicitly time-labeled and are not live opening quotes.",
         "",
         "Rates are indicative and may vary by source, location, transaction size and time. Informational only — not FX advice. The Flagship edition follows after verification.",
         "",

diff --git a/tools/render.py b/tools/render.py
@@ -127,7 +127,11 @@ def load_early():
                 if None in (bl,bh,sl,sh) or bl>bh or sl>sh: die(f'{p}: {c} parallel range incomplete/ordered wrongly')
                 bm=(bl+bh)/2; sm=(sl+sh)/2
                 if bm>sm: die(f'{p}: {c} buy mid above sell mid')
-                if max(bh-bl,sh-sl)>max(20,0.015*(bm+sm)/2): die(f'{p}: {c} range width gate')
+                w=max(bh-bl,sh-sl)
+                if w>max(20,0.015*(bm+sm)/2):
+                    if not v.get('range_flag_acknowledged'): die(f'{p}: {c} range width gate ({w})')
+                    if v.get('parallel_observation_count',0)<2: die(f'{p}: {c} acknowledged wide range lacks two observations')
+                    if len(str(v.get('range_flag_reason','')).strip())<20: die(f'{p}: {c} acknowledged wide range lacks a documented reason')
                 v['_prem']=round((bm/v['official_selling_rate']-1)*100,2)
                 if v.get('premium_pct') is not None and abs(v['_prem']-v['premium_pct'])>0.005: die(f'{p}: {c} premium mismatch')
             if v.get('cbn_check') and v['cbn_check']['pct']>0.3: die(f'{p}: {c} derived-vs-CBN check failed')

diff --git a/handoff/fx/2026-10-14-early.md b/handoff/fx/2026-10-14-early.md
@@ -53,3 +53,17 @@ Only one independent source could be retrieved with a current timestamp. No two-
 - Image rendered with `python3.13` (Pillow is installed there only).
 
 PREPARED — NOT PUBLISHED
+
+## Independent validator correction — 07:18 WAT
+
+- Official benchmarks independently rechecked. CBN 13 Oct selling rates and NFEM weighted average matched the staged data; Bank of Ghana, CBK and CBE values/effective dates matched.
+- SARB's `HomePageRates` endpoint was reachable during validation and directly confirmed the 13 Oct values: USD 16.4601, GBP 21.7850 and EUR 18.4090.
+- The Nigeria parallel-source block was cleared. Multiple independent previous-close/early observations were available by validator pickup, including source-dated observations at 13 Oct 16:13 WAT, 13 Oct 22:06 WAT, 14 Oct 03:00 WAT and a 14 Oct pre-07:00 update.
+- The dataset, website block, social text and image were corrected to show aggregated ranges. They are explicitly labeled previous close / early and not live opening quotes.
+- USD range: buy 1,365-1,375; sell 1,375-1,390; buy midpoint 1,370.00; AMB midpoint 1,376.25; parallel-buy premium 2.78%.
+- GBP range: buy 1,810-1,850; sell 1,835-1,880; buy midpoint 1,830.00; AMB midpoint 1,843.75; parallel-buy premium 3.62%.
+- EUR range: buy 1,500-1,550; sell 1,530-1,590; buy midpoint 1,525.00; AMB midpoint 1,542.50; parallel-buy premium 2.21%.
+- GBP and EUR exceed the normal width threshold; three independent observations and the cross-source dispersion reason are retained in the data. The Early Look validator now applies the same documented wide-range exception control as the Flagship validator.
+- Public attribution remains: “Aggregated from multiple independent market sources.” Provider identities and URLs are not stored in the public repository.
+
+**VALIDATED FOR WEBSITE RELEASE — SOCIAL PUBLICATION FOLLOWS LIVE-PAGE VERIFICATION**
